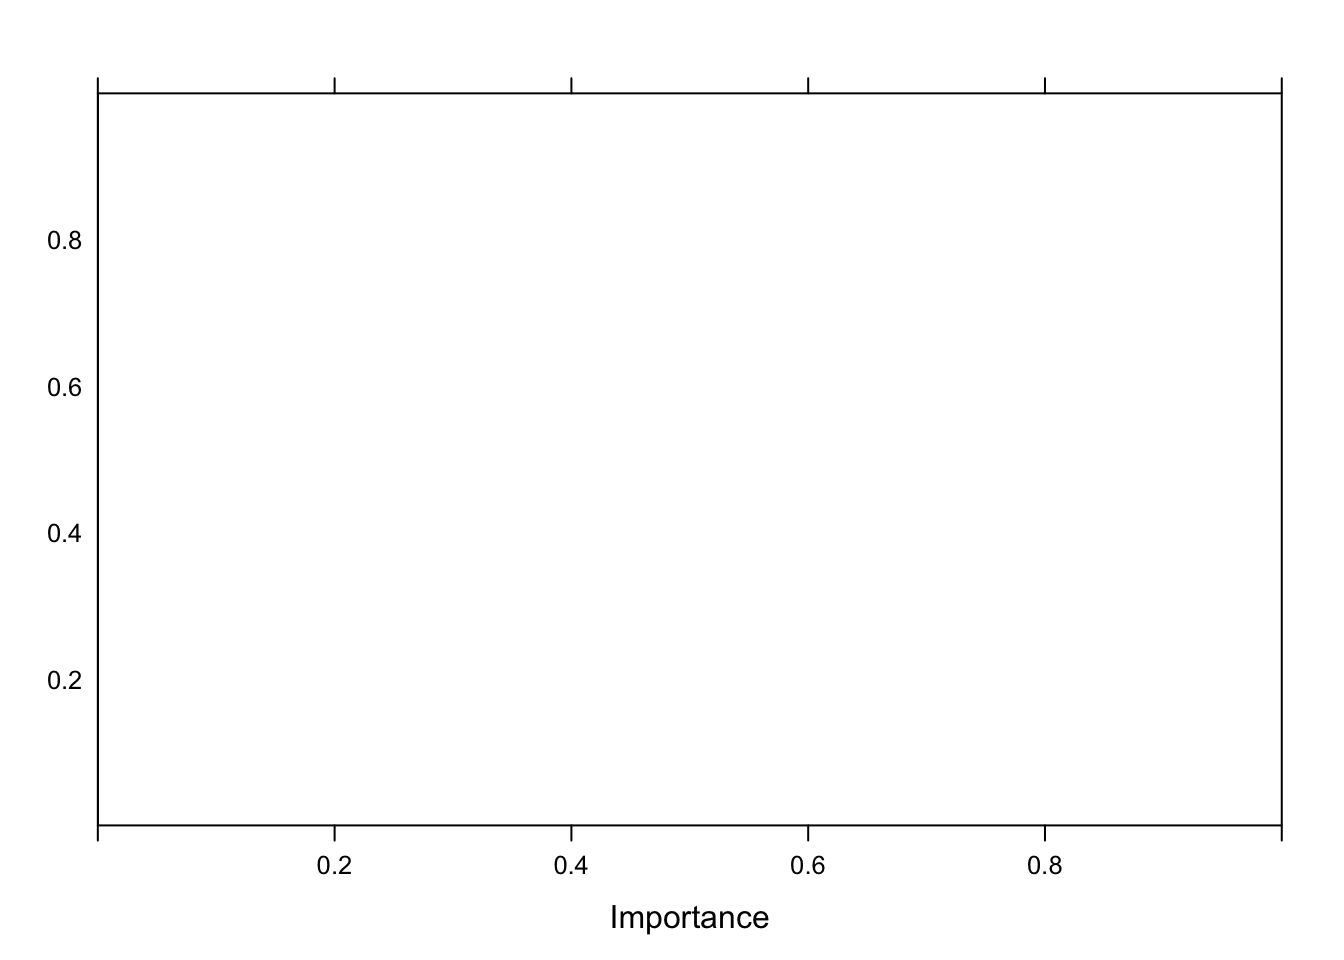
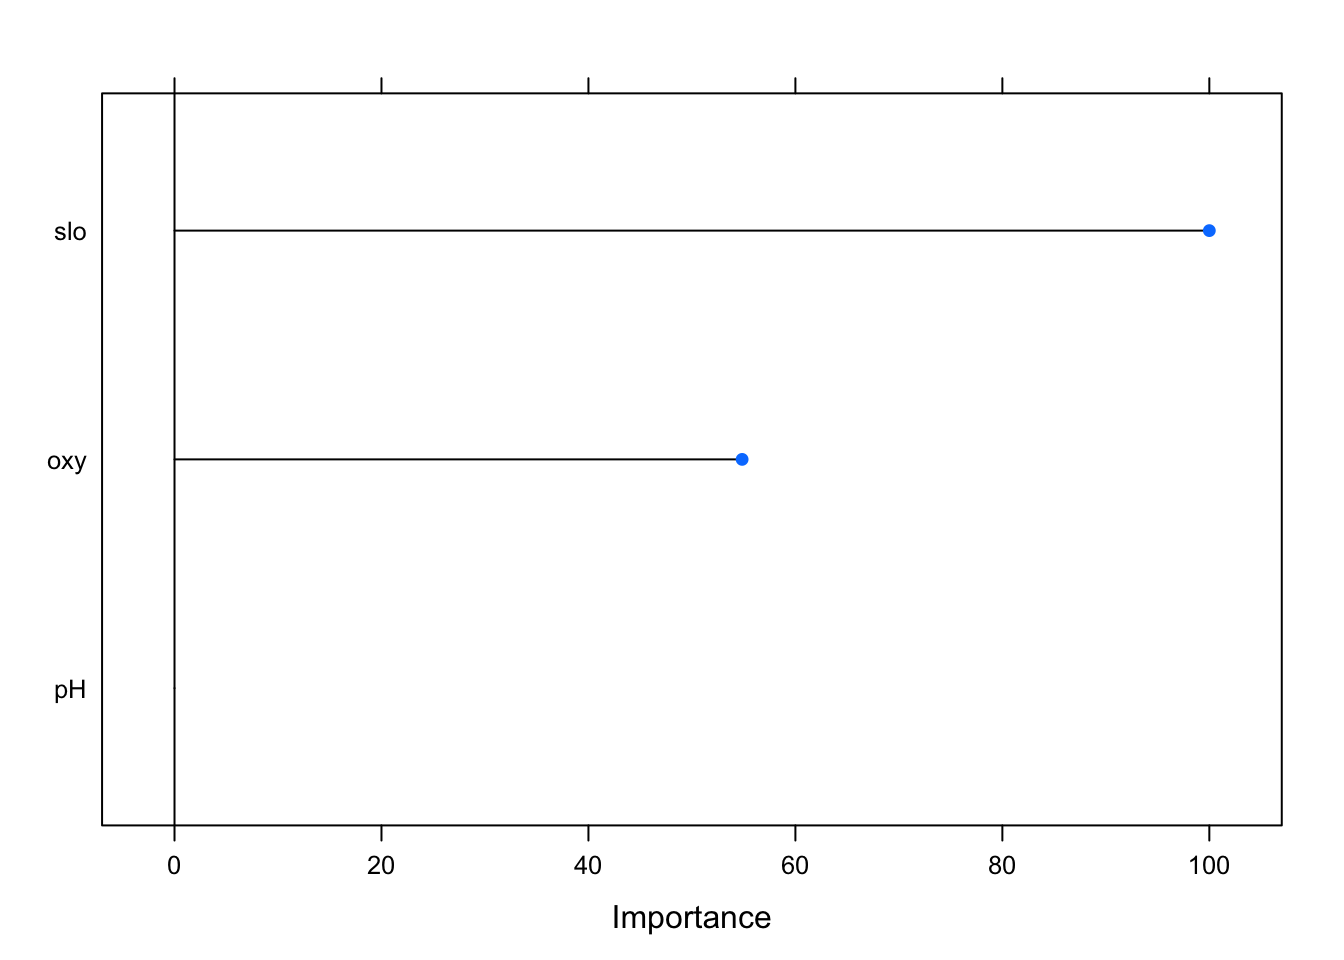
updated site.yml

diff --git a/docs/2_glm.html b/docs/2_glm.html
@@ -299,7 +299,7 @@ $(document).ready(function () {
       <a href="3_gam.html">Generalised Additive Models</a>
     </li>
     <li>
-      <a href="4_sdm.html"></a>
+      <a href="4_sdm.html">Species Distribution Modelling</a>
     </li>
   </ul>
 </li>
@@ -1064,15 +1064,15 @@ rfe</code></pre>
 ## 
 ## Resampling performance over subset size:
 ## 
-##  Variables  RMSE Rsquared   MAE RMSESD RsquaredSD  MAESD Selected
-##          1 2.443   0.1599 2.210 0.4804     0.1481 0.5343        *
-##          3 2.890   0.2645 2.647 1.2056     0.4540 1.2186         
-##          5 3.289   0.1681 2.892 1.3336     0.1792 1.3506         
-##          8 4.450   0.2323 3.874 1.8134     0.3508 1.4211         
-##         11 5.197   0.3269 4.316 1.3856     0.3000 1.0538         
+##  Variables  RMSE Rsquared   MAE RMSESD RsquaredSD   MAESD Selected
+##          1 2.122   0.4697 1.861 0.2289     0.2621 0.22094         
+##          3 1.871   0.5590 1.599 0.1410     0.1799 0.03965        *
+##          5 2.558   0.3913 2.051 0.8833     0.3234 0.77235         
+##          8 3.045   0.3132 2.501 1.1084     0.5038 0.99926         
+##         11 6.079   0.3508 5.045 3.3497     0.4221 3.04256         
 ## 
-## The top 1 variables (out of 1):
-##    slo</code></pre>
+## The top 3 variables (out of 3):
+##    slo, pH, oxy</code></pre>
 <p>We see that the model with four variables resulted in the lowest root means squared error (RMSE). So now we can proceed to fitting a GLM using the optimum features (covariates).</p>
 <pre class="r"><code># Create the formula for the glm
 y &lt;- &quot;y&quot;
@@ -1096,8 +1096,6 @@ glm_fit &lt;- train(
 
 # What are the important of the covariates in them model?
 varImp(glm_fit) %&gt;% plot()</code></pre>
-<pre><code>## Warning in FUN(newX[, i], ...): no non-missing arguments to max; returning
-## -Inf</code></pre>
 <p><img src="2_glm_files/figure-html/caret_search-1.png" width="672" /></p>
 <pre class="r"><code># Show model fit and covariate significance
 summary(glm_fit)</code></pre>
@@ -1107,44 +1105,46 @@ summary(glm_fit)</code></pre>
 ## 
 ## Deviance Residuals: 
 ##     Min       1Q   Median       3Q      Max  
-## -2.6006  -1.3297  -0.6105   0.9198   2.4041  
+## -1.9243  -1.3661  -0.9230   0.5597   2.0707  
 ## 
 ## Coefficients:
-##             Estimate Std. Error z value Pr(&gt;|z|)    
-## (Intercept)   2.4032     0.5047   4.762 1.92e-06 ***
-## slo          -0.6612     0.2121  -3.117  0.00183 ** 
+##              Estimate Std. Error z value Pr(&gt;|z|)  
+## (Intercept) -3.783721  11.434535  -0.331   0.7407  
+## slo         -0.516132   0.237086  -2.177   0.0295 *
+## pH           0.087317   0.142355   0.613   0.5396  
+## oxy         -0.014163   0.009628  -1.471   0.1413  
 ## ---
 ## Signif. codes:  0 &#39;***&#39; 0.001 &#39;**&#39; 0.01 &#39;*&#39; 0.05 &#39;.&#39; 0.1 &#39; &#39; 1
 ## 
 ## (Dispersion parameter for poisson family taken to be 1)
 ## 
-##     Null deviance: 48.643  on 18  degrees of freedom
-## Residual deviance: 35.465  on 17  degrees of freedom
-## AIC: 74.627
+##     Null deviance: 54.888  on 18  degrees of freedom
+## Residual deviance: 35.472  on 15  degrees of freedom
+## AIC: 77.501
 ## 
 ## Number of Fisher Scoring iterations: 6</code></pre>
 <pre class="r"><code>glm_fit</code></pre>
 <pre><code>## Generalized Linear Model 
 ## 
 ## 19 samples
-##  1 predictor
+##  3 predictor
 ## 
 ## No pre-processing
 ## Resampling: Cross-Validated (5 fold, repeated 5 times) 
 ## Summary of sample sizes: 15, 15, 15, 16, 15, 15, ... 
 ## Resampling results:
 ## 
-##   RMSE      Rsquared  MAE     
-##   2.020324  0.430049  1.715951</code></pre>
+##   RMSE      Rsquared   MAE     
+##   2.316367  0.5014529  1.891563</code></pre>
 <pre class="r"><code># how accurate was the trained model on the test data set?
 # Make a prediction on the test data set
 pred &lt;- predict(glm_fit, newdata = testing)
 
 pred</code></pre>
-<pre><code>##         3         4         6         8        12        14        17 
-## 0.9978455 1.0953428 1.0953428 1.2828520 1.6990692 2.0284514 3.3816129 
-##        21        22        28        30 
-## 2.2652545 1.8454555 4.4228556 5.3470218</code></pre>
+<pre><code>##         1         3         4         6        15        17        18 
+## 0.1650911 1.1037638 0.8510660 0.8734747 3.1377169 2.2980130 1.8383130 
+##        19        21        25        29 
+## 2.3695697 1.8256054 4.9962473 2.1125305</code></pre>
 <pre class="r"><code># Calculate prediction accuracy of model, given test data</code></pre>
 <p>As we know from the vignette on Data Exploration, there is significant colinearity between a specific group of covariates. Hence <code>alt</code> and <code>dfs</code> are collinear. We can see this from the covariate significance in the above results.</p>
 <p>The caret led process has generated a model that has slightly higher residual deviance than the initial model that included all covariates. But the caret model only has one covariate, as selected by the RFE. This is reflected in the AIC score and means that a much simpler model gives effectively the same results, in terms of residual errors.</p>

diff --git a/docs/1_data_analysis.html b/docs/1_data_analysis.html
@@ -299,7 +299,7 @@ $(document).ready(function () {
       <a href="3_gam.html">Generalised Additive Models</a>
     </li>
     <li>
-      <a href="4_sdm.html"></a>
+      <a href="4_sdm.html">Species Distribution Modelling</a>
     </li>
   </ul>
 </li>

diff --git a/docs/3_gam.html b/docs/3_gam.html
@@ -299,7 +299,7 @@ $(document).ready(function () {
       <a href="3_gam.html">Generalised Additive Models</a>
     </li>
     <li>
-      <a href="4_sdm.html"></a>
+      <a href="4_sdm.html">Species Distribution Modelling</a>
     </li>
   </ul>
 </li>

diff --git a/docs/4_sdm.html b/docs/4_sdm.html
@@ -299,7 +299,7 @@ $(document).ready(function () {
       <a href="3_gam.html">Generalised Additive Models</a>
     </li>
     <li>
-      <a href="4_sdm.html"></a>
+      <a href="4_sdm.html">Species Distribution Modelling</a>
     </li>
   </ul>
 </li>

diff --git a/docs/about.html b/docs/about.html
@@ -299,7 +299,7 @@ $(document).ready(function () {
       <a href="3_gam.html">Generalised Additive Models</a>
     </li>
     <li>
-      <a href="4_sdm.html"></a>
+      <a href="4_sdm.html">Species Distribution Modelling</a>
     </li>
   </ul>
 </li>

diff --git a/docs/index.html b/docs/index.html
@@ -299,7 +299,7 @@ $(document).ready(function () {
       <a href="3_gam.html">Generalised Additive Models</a>
     </li>
     <li>
-      <a href="4_sdm.html"></a>
+      <a href="4_sdm.html">Species Distribution Modelling</a>
     </li>
   </ul>
 </li>
